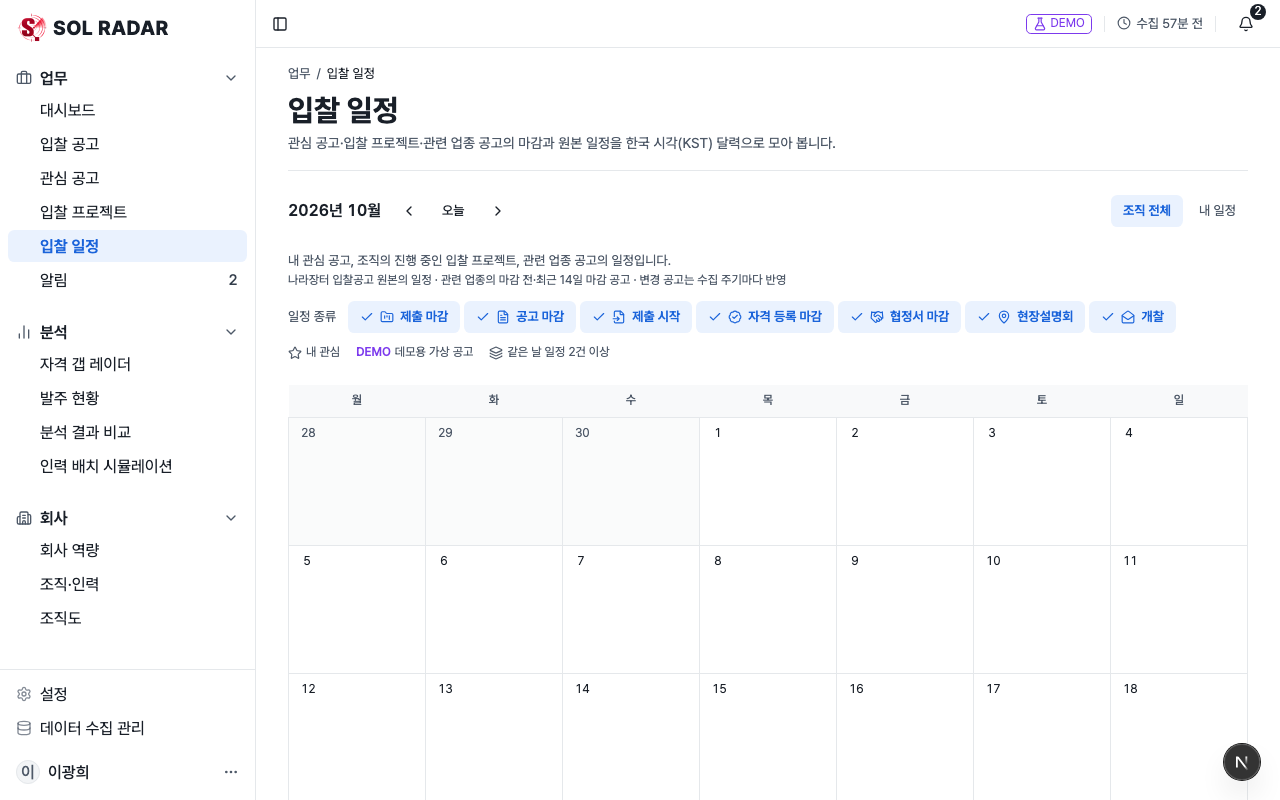
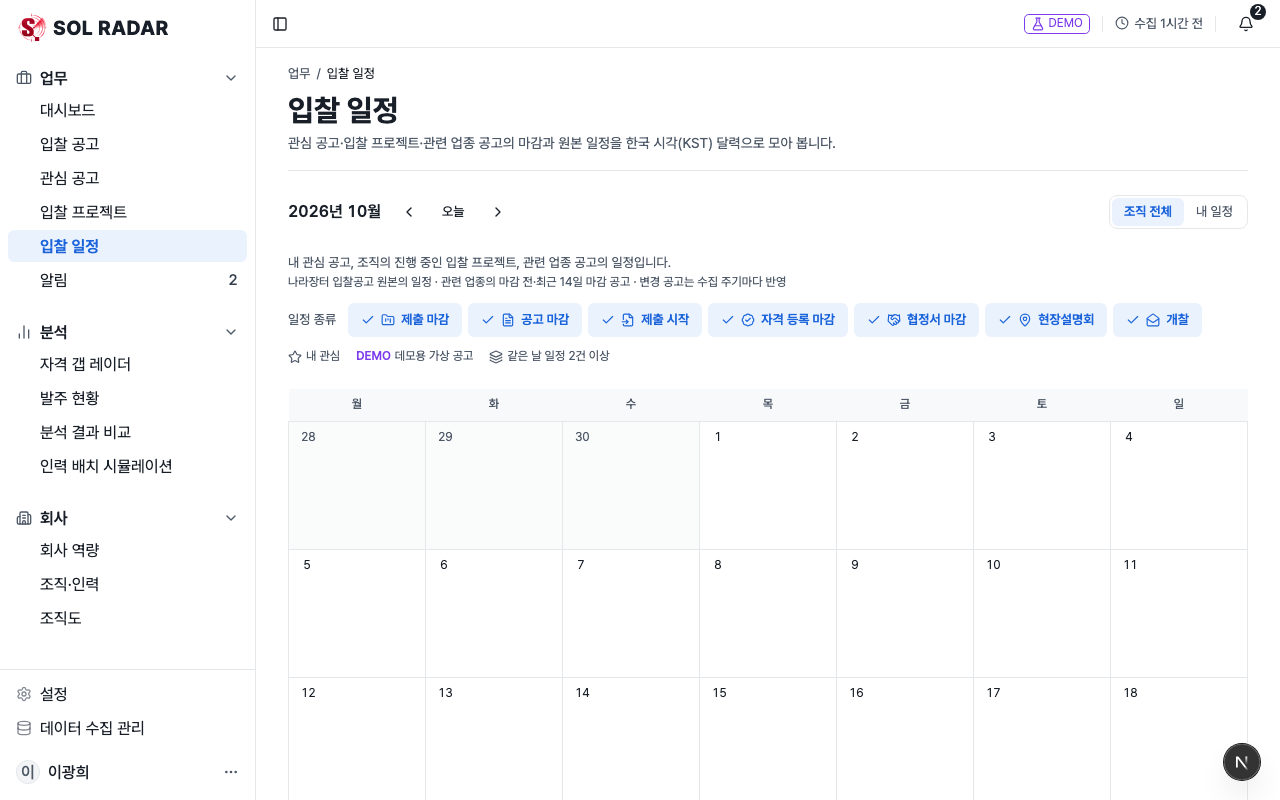
style(web): 입찰 일정·알림 알약을 하는 일로 나누기
- 하나 고르기 전환(입찰 일정 조직 전체·내 일정, 알림 전체·안 읽음):
  바깥 rounded-lg border p-0.5 상자 안의 알약
- 여러 개 켜는 거르기 칩(입찰 일정 일정 종류): 칩마다 1px 테두리,
  켜짐은 border-transparent + bg-selected, 바깥 상자 없음
- 알림 nav 의 aria·href 는 그대로, 로딩 뼈대도 상자 모양으로

diff --git a/web/app/(app)/(work)/notifications/page.tsx b/web/app/(app)/(work)/notifications/page.tsx
@@ -9,9 +9,9 @@ import { NOTIFICATIONS_DESCRIPTION, NOTIFICATIONS_TITLE } from "./notifications-
 
 export const metadata: Metadata = { title: NOTIFICATIONS_TITLE };
 
-// 연한 파랑 알약이다(2026-10-28 화면 개편: 설정 메뉴와 같은 클래스). 화면 머리 아래 구분선이 있어 밑줄 선은 두지 않는다.
+// 같은 알림을 다른 기준으로 보는 하나 고르기 전환이라 테두리 상자 안의 연한 파랑 알약이다(2026-10-28 화면 개편).
 const LINK_CLASS =
-  "inline-flex items-center rounded-md px-3 py-1.5 type-label text-muted-foreground outline-none hover:bg-muted focus-visible:ring-3 focus-visible:ring-ring/50 aria-[current=page]:bg-selected aria-[current=page]:font-semibold aria-[current=page]:text-selected-foreground";
+  "inline-flex items-center rounded-md px-3 py-1 type-label text-muted-foreground outline-none hover:bg-muted focus-visible:ring-3 focus-visible:ring-ring/50 aria-[current=page]:bg-selected aria-[current=page]:font-semibold aria-[current=page]:text-selected-foreground";
 
 // 스펙 §5.5. ?unread=1 이면 안 읽은 알림만 읽는다. 내 알림만 보인다(RLS, user_id).
 export default async function NotificationsPage({ searchParams }: PageProps<"/notifications">) {
@@ -26,8 +26,8 @@ export default async function NotificationsPage({ searchParams }: PageProps<"/no
   const first = await loadNotificationPage(orgId, userId, unreadOnly);
   return (
     <AppPage title={NOTIFICATIONS_TITLE} description={NOTIFICATIONS_DESCRIPTION}>
-      <nav aria-label="알림 보기">
-        <ul className="flex gap-1">
+      <nav aria-label="알림 보기" className="self-start">
+        <ul className="inline-flex rounded-lg border border-border p-0.5">
           <li>
             <Link
               href="/notifications"

diff --git a/web/app/(app)/(work)/calendar/calendar-kind-filter.tsx b/web/app/(app)/(work)/calendar/calendar-kind-filter.tsx
@@ -34,8 +34,8 @@ export function CalendarKindFilter({
       <span aria-hidden className="type-label text-muted-foreground">
         {KIND_FILTER_LABEL}
       </span>
-      {/* 켜고 끄는 링크(주소가 바뀐다)라 화면 이동 탭과 같은 알약이다. 바깥 테두리는 두지 않는다(2026-10-28 화면 개편). */}
-      <ul className="flex flex-wrap gap-1">
+      {/* 여러 개 켜는 거르기 칩이라 칩마다 1px 테두리를 두고 바깥 상자는 두지 않는다(2026-10-28 화면 개편). */}
+      <ul className="flex flex-wrap gap-1.5">
         {KIND_ORDER.map((kind) => {
           const on = kinds.includes(kind);
           const Icon = KIND_ICON[kind];
@@ -46,10 +46,10 @@ export function CalendarKindFilter({
                 title={KIND_LABELS[kind]}
                 data-kind={kind}
                 className={cn(
-                  "inline-flex items-center gap-1.5 rounded-md px-3 py-1.5 type-label whitespace-nowrap outline-hidden focus-visible:ring-2 focus-visible:ring-ring",
+                  "inline-flex items-center gap-1.5 rounded-md border px-3 py-1.5 type-label whitespace-nowrap outline-hidden focus-visible:ring-2 focus-visible:ring-ring",
                   on
-                    ? "bg-selected font-semibold text-selected-foreground"
-                    : "text-muted-foreground hover:bg-muted",
+                    ? "border-transparent bg-selected font-semibold text-selected-foreground"
+                    : "border-border text-muted-foreground hover:bg-muted",
                 )}
               >
                 {on ? <CheckIcon aria-hidden className="size-3.5 shrink-0" /> : null}

diff --git a/web/app/(app)/(work)/calendar/calendar-view.tsx b/web/app/(app)/(work)/calendar/calendar-view.tsx
@@ -400,15 +400,15 @@ export function BidCalendar({
             </Link>
           </nav>
         </div>
-        {/* 주소를 바꾸는 링크라 화면 이동 탭 모양이다(2026-10-28 화면 개편: 설정 메뉴와 같은 알약, 바깥 테두리 없음). */}
-        <nav aria-label="보기" className="flex gap-1">
+        {/* 같은 일정을 다른 범위로 보는 하나 고르기 전환이라 테두리 상자 안의 알약이다(2026-10-28 화면 개편). */}
+        <nav aria-label="보기" className="inline-flex rounded-lg border border-border p-0.5">
           {VIEW_ORDER.map((option) => (
             <Link
               key={option}
               href={links.views[option]}
               aria-current={option === view ? "page" : undefined}
               className={cn(
-                "rounded-md px-3 py-1.5 type-label outline-hidden focus-visible:ring-2 focus-visible:ring-ring",
+                "rounded-md px-3 py-1 type-label outline-hidden focus-visible:ring-2 focus-visible:ring-ring",
                 option === view
                   ? "bg-selected font-semibold text-selected-foreground"
                   : "text-muted-foreground hover:bg-muted",

diff --git a/web/app/(app)/(work)/notifications/loading.tsx b/web/app/(app)/(work)/notifications/loading.tsx
@@ -11,10 +11,10 @@ export default function Loading() {
       <div role="status" className="flex flex-col gap-6">
         <span className="sr-only">알림을 불러오는 중…</span>
         <div aria-hidden className="contents">
-          {/* 전체·안 읽음 알약 두 개 자리다. */}
-          <div className="flex items-center gap-1">
-            <Skeleton className={`h-8 w-14 rounded-md ${pulse}`} />
-            <Skeleton className={`h-8 w-18 rounded-md ${pulse}`} />
+          {/* 전체·안 읽음 전환 상자 자리다. */}
+          <div className="flex self-start rounded-lg border border-border p-0.5">
+            <Skeleton className={`h-7 w-14 rounded-md ${pulse}`} />
+            <Skeleton className={`h-7 w-18 rounded-md ${pulse}`} />
           </div>
           <div className="overflow-hidden rounded-lg border border-border bg-card">
             <div className="divide-y divide-border">
